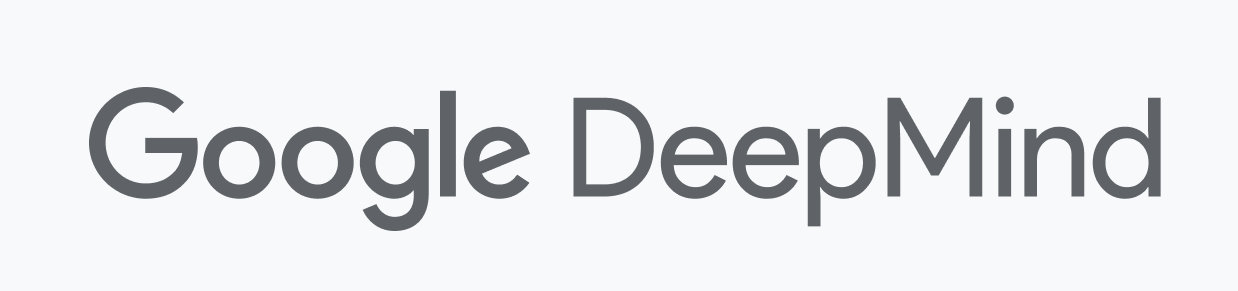
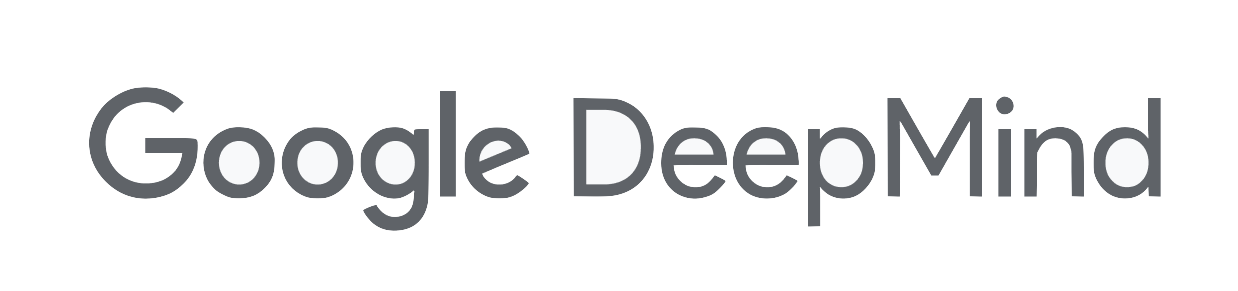
content:  CSLib project, Initiative and strategic orgs
Split the "one project, two things" explanation out of About into
dedicated pages and reorganize the site around that distinction.

Pages:
- Add Initiative page: RenPhil team, Strategic Advisory Board, approach,
  and roadmap goals (moved out of About and Roadmap).
- Add StrategicOrganizations page linking to the Initiative and FORM.
- Add FORM page for the Centre for Formal Methods and Future Computing.
- Trim About down to the CSLib mission, with links to the new pages.
- Move the RenPhil team / Advisory Board sections out of Governance so
  it now covers only the open-source project.
- Drop the "Where things stand" funding section from Roadmap (moved to
  Initiative).

Wiring:
- Extract team member data and the teamDiv directive into the shared
  Lang/Components/TeamData; add contact entries for FORM and Initiative.
- Rename routes: Governance -> governance, publications -> resources;
  register strategic-organizations, initiative, and form.
- Register new pages as index pages in Theme.
- Fix internal /Governance link to /governance.

Sponsors:
- Add Coefficient Giving; update DeepMind logo.

Style:
- Tighten navbar item horizontal padding (space-4 -> space-2).

diff --git a/static/css/navbar.css b/static/css/navbar.css
@@ -79,7 +79,7 @@
     justify-content: center;
     color: var(--color-text);
     font-weight: 500;
-    padding: var(--space-3) var(--space-4);
+    padding: var(--space-3) var(--space-2);
     border-radius: var(--radius-md);
     transition: all var(--transition-base);
     border: none;
